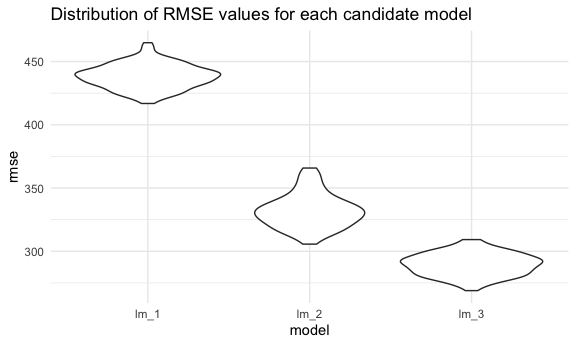
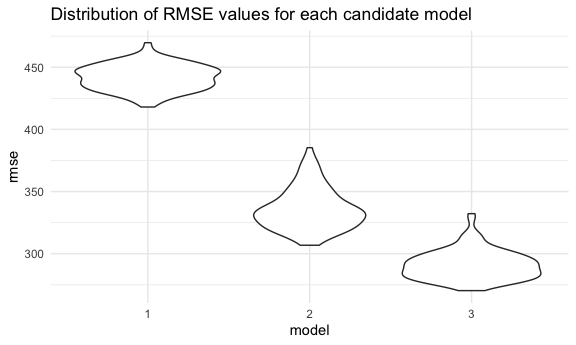
reformatting variable names for plot showing distribution of RMSE values for each candidate model

diff --git a/p8105_hw6_rr3423.md b/p8105_hw6_rr3423.md
@@ -357,10 +357,10 @@ gestational age as predictors (main effects only)
 
 ``` r
 # creating model using blength and gaweeks as predictors 
-model_2 = lm(bwt ~ blength + gaweeks, data = birthweight_df)
+lm_2 = lm(bwt ~ blength + gaweeks, data = birthweight_df)
 
 # tidying model
-model_2 %>% 
+lm_2 %>% 
   broom::tidy() %>% 
   select(term, estimate, p.value) %>% 
   knitr::kable(digits = 3)
@@ -378,10 +378,10 @@ these
 
 ``` r
 # creating model of all interactions between head circumference, length, and sex
-model_3 = lm(bwt ~ bhead*blength*babysex, data = birthweight_df)
+lm_3 = lm(bwt ~ bhead*blength*babysex, data = birthweight_df)
 
 # tidying model
-model_3 %>% 
+lm_3 %>% 
   broom::tidy() %>% 
   select(term, estimate, p.value) %>%  
   knitr::kable(digits = 3)
@@ -415,14 +415,14 @@ cv_df =
 cv_df = 
   cv_df %>% 
   mutate(
-    lm_1 = map(train, ~lm(bwt ~ gaweeks + momage + mrace + wtgain, data = .x)),
-    lm_2 = map(train, ~lm(bwt ~ blength + gaweeks, data = .x)),
-    lm_3 = map(train, ~lm(bwt ~ bhead*blength*babysex, data = .x))
+    model_1 = map(train, ~lm(bwt ~ gaweeks + momage + mrace + wtgain, data = .x)),
+    model_2 = map(train, ~lm(bwt ~ blength + gaweeks, data = .x)),
+    model_3 = map(train, ~lm(bwt ~ bhead*blength*babysex, data = .x))
   ) %>% 
   mutate(
-    rmse_lm_1 = map2_dbl(lm_1, test, ~rmse(model = .x, data = .y)),
-    rmse_lm_2 = map2_dbl(lm_2, test, ~rmse(model = .x, data = .y)),
-    rmse_lm_3 = map2_dbl(lm_3, test, ~rmse(model = .x, data = .y))
+    rmse_1 = map2_dbl(model_1, test, ~rmse(model = .x, data = .y)),
+    rmse_2 = map2_dbl(model_2, test, ~rmse(model = .x, data = .y)),
+    rmse_3 = map2_dbl(model_3, test, ~rmse(model = .x, data = .y))
   )
 ```
 
@@ -447,3 +447,5 @@ cv_df %>%
 ```
 
 <img src="p8105_hw6_rr3423_files/figure-gfm/rmse_plot-1.png" width="90%" />
+
+Model 3
